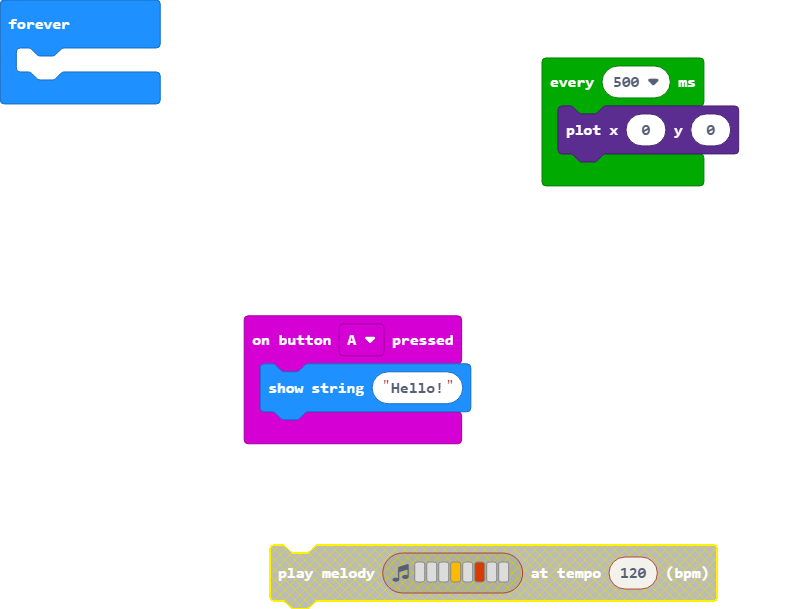
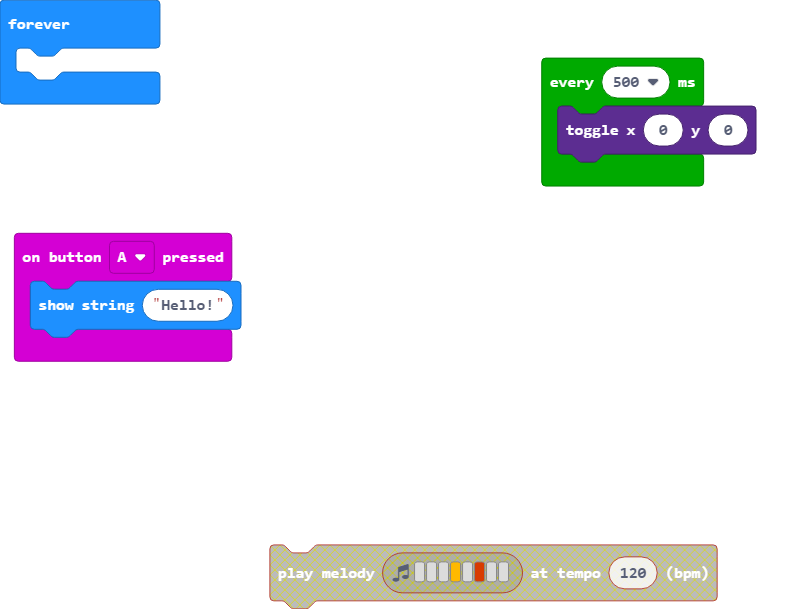
blink

diff --git a/main.ts b/main.ts
@@ -2,7 +2,7 @@ input.onButtonPressed(Button.A, function () {
     basic.showString("Hello!")
 })
 loops.everyInterval(500, function () {
-    led.plot(0, 0)
+    led.toggle(0, 0)
 })
 basic.forever(function () {
 	
